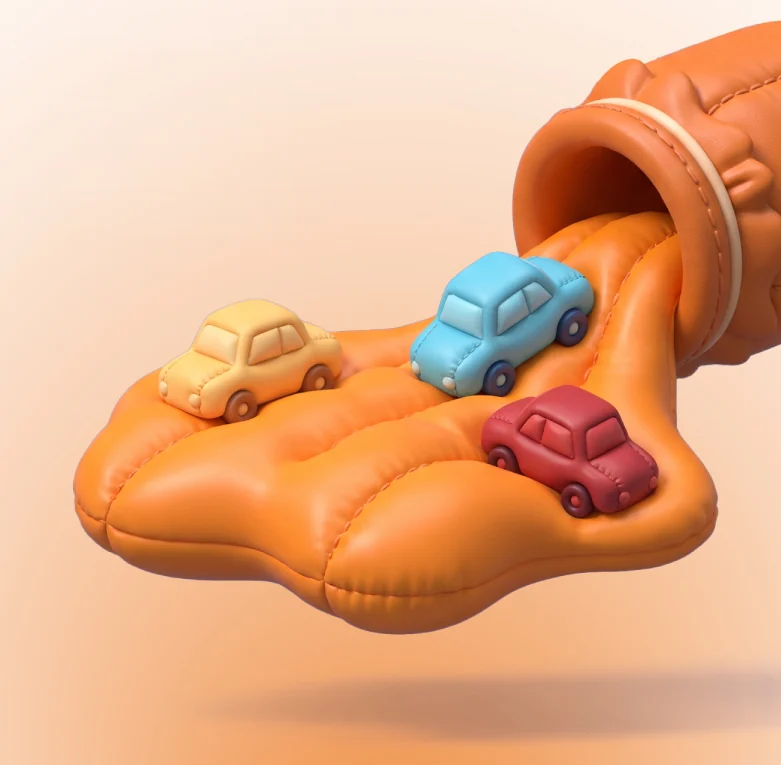
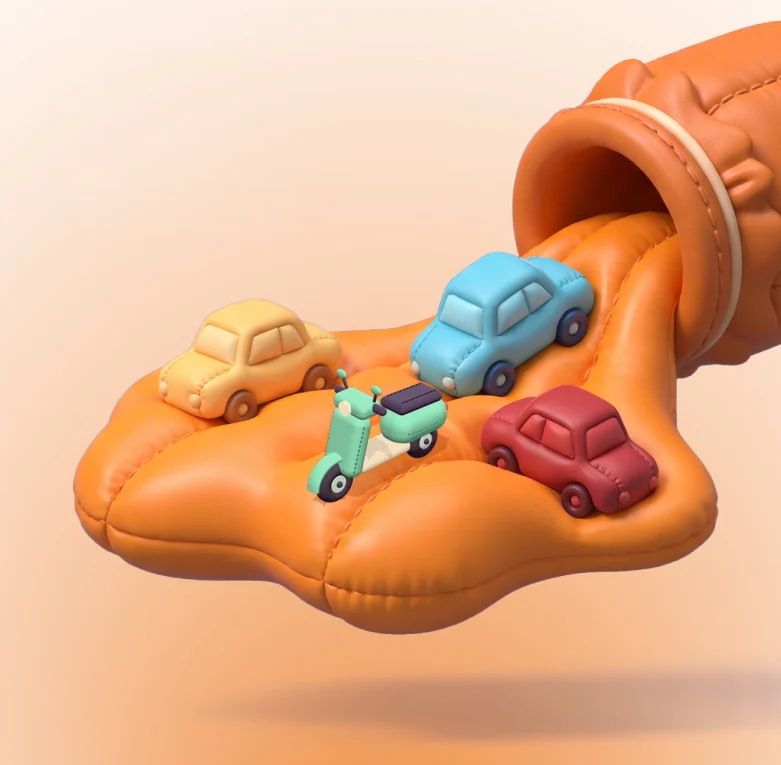
首頁插畫補一台機車：議題原文是「汽機車」
用 three.js 建薄荷綠玩具機車（輪胎、縫線、柔光照原本的車做），算繪成透明背景後合成在藍車前面；
模型與算繪腳本放在 design/landing/scooter/，可改顏色或角度重算。.gitignore 加 node_modules/。

Claude-Session: https://claude.ai/code/session_01VWphxRHHfm9Vpb5YjSMYpE

Changed region(s): [[0.3995, 0.481, 0.5839, 0.6614]]

diff --git a/design/landing/scooter/scooter.html b/design/landing/scooter/scooter.html
@@ -1,0 +1,148 @@
+<!doctype html>
+<html><head><meta charset="utf-8">
+<style>html,body{margin:0;background:transparent}</style>
+<script type="importmap">{"imports":{"three":"./node_modules/three/build/three.module.js","three/addons/":"./node_modules/three/examples/jsm/"}}</script>
+</head><body>
+<script type="module">
+// 插畫裡的玩具機車。算繪方式見 render.js；改顏色改 C，改角度用網址參數 yaw、elev。
+import * as THREE from 'three';
+import { RoundedBoxGeometry } from 'three/addons/geometries/RoundedBoxGeometry.js';
+import { RoomEnvironment } from 'three/addons/environments/RoomEnvironment.js';
+
+const q = new URLSearchParams(location.search);
+const W = +(q.get('w') || 800), H = +(q.get('h') || 700);
+const yaw = +(q.get('yaw') || 0.42);
+const elev = +(q.get('elev') || 0.52);
+
+const renderer = new THREE.WebGLRenderer({ antialias: true, alpha: true, preserveDrawingBuffer: true });
+renderer.setPixelRatio(1);
+renderer.setSize(W, H);
+renderer.setClearColor(0x000000, 0);
+renderer.toneMapping = THREE.NeutralToneMapping;
+renderer.toneMappingExposure = 1.0;
+renderer.outputColorSpace = THREE.SRGBColorSpace;
+renderer.shadowMap.enabled = true;
+renderer.shadowMap.type = THREE.PCFSoftShadowMap;
+document.body.appendChild(renderer.domElement);
+
+const scene = new THREE.Scene();
+const pmrem = new THREE.PMREMGenerator(renderer);
+scene.environment = pmrem.fromScene(new RoomEnvironment(), 0.04).texture;
+scene.environmentIntensity = 0.35;
+
+// 光：左上方的柔光＋地面橘色反光（插畫裡車子底部都偏橘）
+scene.add(new THREE.HemisphereLight(0xfff4ea, 0xf0883e, 0.75));
+const key = new THREE.DirectionalLight(0xfff1e2, 2.5);
+key.position.set(-2, 9, 3.5);
+key.castShadow = true;
+key.shadow.mapSize.set(2048, 2048);
+key.shadow.camera.left = -3; key.shadow.camera.right = 3;
+key.shadow.camera.top = 3; key.shadow.camera.bottom = -3;
+key.shadow.radius = 14;
+key.shadow.bias = -0.0006;
+scene.add(key);
+const rim = new THREE.DirectionalLight(0xffd9b8, 0.6);
+rim.position.set(4, 3, -4);
+scene.add(rim);
+
+function felt(hex, opts = {}) {
+  const c = new THREE.Color(hex);
+  return new THREE.MeshPhysicalMaterial({
+    color: c, roughness: 0.78, metalness: 0,
+    sheen: 0.35, sheenRoughness: 0.6, sheenColor: c.clone().lerp(new THREE.Color(0xffffff), 0.55),
+    ...opts,
+  });
+}
+const C = {
+  body: '#79CFAD', stitch: '#438F70',
+  cream: '#F4E2C4', seat: '#4A3C5C', tire: '#43394A', hub: '#CDEBDD',
+  lamp: '#FFF3D2', tail: '#D9555B',
+};
+
+const scooter = new THREE.Group();
+scene.add(scooter);
+function add(geo, mat, pos, rot = [0, 0, 0], scale) {
+  const m = new THREE.Mesh(geo, mat);
+  m.position.set(...pos); m.rotation.set(...rot);
+  if (scale) m.scale.set(...scale);
+  m.castShadow = true; m.receiveShadow = true;
+  scooter.add(m); return m;
+}
+const rbox = (w, h, d, r) => new RoundedBoxGeometry(w, h, d, 8, r);
+
+// 輪子：深紫藍輪胎＋淺色輪轂（和插畫裡的車一樣）
+function wheel(x) {
+  add(new THREE.TorusGeometry(0.235, 0.135, 32, 64), felt(C.tire, { roughness: 0.9 }), [x, 0.37, 0]);
+  add(new THREE.CylinderGeometry(0.15, 0.15, 0.25, 48), felt(C.hub), [x, 0.37, 0], [Math.PI / 2, 0, 0]);
+  add(new THREE.SphereGeometry(0.055, 24, 16), felt(C.tire), [x, 0.37, 0.13]);
+}
+wheel(-1.05);
+wheel(0.98);
+
+// 車身
+add(rbox(1.15, 0.22, 0.62, 0.1), felt(C.cream), [-0.12, 0.56, 0]);                       // 踏板
+const rear = add(rbox(1.3, 0.66, 0.7, 0.3), felt(C.body), [0.78, 0.86, 0]);              // 後車身
+const seat = add(rbox(1.04, 0.2, 0.58, 0.1), felt(C.seat, { roughness: 0.85 }), [0.72, 1.27, 0], [0, 0, -0.04]); // 坐墊
+const shield = add(rbox(0.36, 1.08, 0.74, 0.17), felt(C.body), [-0.74, 1.0, 0], [0, 0, -0.27]); // 前擋板
+add(new THREE.TorusGeometry(0.44, 0.068, 20, 64, Math.PI * 0.6), felt(C.body), [-1.05, 0.37, 0], [0, 0, Math.PI * 0.38], [1, 1, 2.0]); // 前土除：包住前輪的弧
+add(rbox(0.46, 0.28, 0.76, 0.12), felt(C.body), [-0.52, 1.62, 0]);                         // 龍頭
+add(new THREE.CylinderGeometry(0.12, 0.12, 0.08, 48), felt(C.lamp, { emissive: new THREE.Color(C.lamp), emissiveIntensity: 0.35 }),
+  [-0.77, 1.62, 0], [0, 0, Math.PI / 2]);                                                  // 大燈
+for (const z of [-0.45, 0.45]) {
+  add(new THREE.CapsuleGeometry(0.07, 0.16, 8, 24), felt(C.seat), [-0.46, 1.66, z], [Math.PI / 2, 0, 0]); // 握把
+  add(new THREE.CapsuleGeometry(0.025, 0.2, 6, 12), felt(C.seat), [-0.46, 1.86, z * 0.82], [z > 0 ? 0.35 : -0.35, 0, 0.1]); // 後照鏡桿
+  add(new THREE.SphereGeometry(0.1, 24, 16), felt(C.body), [-0.48, 1.99, z * 0.92], [0, 0, 0], [0.45, 0.75, 1.15]); // 後照鏡
+}
+add(rbox(0.08, 0.15, 0.4, 0.04), felt(C.tail, { emissive: new THREE.Color(C.tail), emissiveIntensity: 0.15 }), [1.43, 0.92, 0]); // 尾燈
+
+// 縫線：沿著車身表面排一串小短線，模仿插畫裡的布偶車縫線；用射線找表面，縫線才不會浮在圓角外面
+scooter.updateMatrixWorld(true);
+const ray = new THREE.Raycaster();
+function stitchesOn(mesh, path, dir, color = C.stitch) {
+  // path：在投影平面上的折線（2D），dir：射線方向（從車外往車內）
+  const d = new THREE.Vector3(...dir).normalize();
+  const flat = new THREE.CatmullRomCurve3(path.map(p => new THREE.Vector3(...p)));
+  const len = flat.getLength(), step = 0.072, n = Math.max(2, Math.floor(len / step));
+  const pts = [];
+  for (let i = 0; i <= n; i++) {
+    const o = flat.getPointAt(i / n).clone().addScaledVector(d, -2);
+    ray.set(o, d);
+    const hit = ray.intersectObject(mesh, false)[0];
+    if (!hit) continue;
+    const nrm = hit.face.normal.clone().transformDirection(mesh.matrixWorld);
+    pts.push(hit.point.clone().addScaledVector(nrm, 0.012));
+  }
+  const geo = new THREE.CapsuleGeometry(0.012, 0.03, 4, 8);
+  const mat = felt(color, { sheen: 0 });
+  for (let i = 0; i < pts.length - 1; i++) {
+    const a = pts[i], b = pts[i + 1];
+    const m = new THREE.Mesh(geo, mat);
+    m.position.copy(a).lerp(b, 0.5);
+    m.quaternion.setFromUnitVectors(new THREE.Vector3(0, 1, 0), b.clone().sub(a).normalize());
+    scooter.add(m);
+  }
+}
+for (const z of [1, -1]) {
+  stitchesOn(rear, [[0.3, 0.86, 0], [0.78, 0.84, 0], [1.28, 0.86, 0]], [0, 0, -z]);   // 後車身側邊
+  stitchesOn(shield, [[-0.95, 0.55, 0], [-0.82, 1.0, 0], [-0.69, 1.42, 0]], [0, 0, -z]); // 前擋板側邊
+}
+stitchesOn(seat, [[0.3, 2, 0.18], [0.72, 2, 0.18], [1.14, 2, 0.18]], [0, -1, 0], '#2F2740');  // 坐墊
+stitchesOn(seat, [[0.3, 2, -0.18], [0.72, 2, -0.18], [1.14, 2, -0.18]], [0, -1, 0], '#2F2740');
+
+// 影子只接在地面上
+const ground = new THREE.Mesh(new THREE.PlaneGeometry(12, 12), new THREE.ShadowMaterial({ color: 0xb8460f, opacity: 0.42 }));
+ground.rotation.x = -Math.PI / 2;
+ground.receiveShadow = true;
+scene.add(ground);
+
+scooter.rotation.y = yaw;
+
+const cam = new THREE.PerspectiveCamera(18, W / H, 0.1, 100);
+const dist = 13;
+cam.position.set(-dist * Math.cos(elev) * 0.32, 0.9 + dist * Math.sin(elev), dist * Math.cos(elev) * 0.95);
+cam.lookAt(0.1, 0.9, 0);
+
+renderer.render(scene, cam);
+window.__done = true;
+</script>
+</body></html>

diff --git a/design/landing/scooter/render.js b/design/landing/scooter/render.js
@@ -1,0 +1,28 @@
+// 把 scooter.html 算繪成透明背景的 PNG。
+// 用法：npm i three@0.169.0 playwright && node render.js "scooter.html?w=1600&h=1400" scooter.png 1600 1400
+const http = require('http'), fs = require('fs'), path = require('path');
+const { chromium } = require('playwright');
+const root = __dirname;
+const types = { '.html': 'text/html', '.js': 'text/javascript', '.mjs': 'text/javascript' };
+const server = http.createServer((req, res) => {
+  const p = path.join(root, decodeURIComponent(req.url.split('?')[0]));
+  fs.readFile(p, (err, data) => {
+    if (err) { res.writeHead(404); return res.end(); }
+    res.writeHead(200, { 'Content-Type': types[path.extname(p)] || 'application/octet-stream' });
+    res.end(data);
+  });
+}).listen(0, async () => {
+  const port = server.address().port;
+  const [,, scene, out, w = '800', h = '700'] = process.argv;
+  const browser = await chromium.launch({
+    executablePath: process.env.CHROMIUM_PATH || undefined,
+    args: ['--use-angle=swiftshader', '--enable-unsafe-swiftshader', '--ignore-gpu-blocklist'],
+  });
+  const page = await browser.newPage({ viewport: { width: +w, height: +h }, deviceScaleFactor: 1 });
+  page.on('console', m => console.log('[page]', m.text()));
+  page.on('pageerror', e => console.log('[pageerror]', e.message));
+  await page.goto(`http://localhost:${port}/${scene}`);
+  await page.waitForFunction(() => window.__done === true, null, { timeout: 120000 });
+  await page.locator('canvas').screenshot({ path: out, omitBackground: true });
+  await browser.close(); server.close();
+});

diff --git a/design/landing/README.md b/design/landing/README.md
@@ -6,7 +6,7 @@
 
 ## 保留原稿的部分
 
-- 3D 玩具車插畫：`hero-toy-road.webp`（27 KB）直接從設計稿裁下，去掉原本畫在圖上的字，副標改用網頁文字疊上去。
+- 3D 玩具車插畫：`hero-toy-road.webp`（30 KB）直接從設計稿裁下，去掉原本畫在圖上的字，副標改用網頁文字疊上去；另外補了一台機車（見下面「插畫裡的機車」）。
 - 字標字型改用 Google Fonts 的 Grandstander 800，是最接近原稿的免費字型。
 - 橘色＋青色的配色、「把塞車捲起來」、按鈕「點我⋯！」的語氣、置中的大字主文案。
 
@@ -34,12 +34,25 @@
 - **青色代表行動：** 按鈕、建議時段。和錯峰情境色階的「藍＝改善」一致。
 - 資料畫面（熱力圖、錯峰情境、協商一頁紙）照舊使用 [`Tokens.dc.html`](../heatmap-canvas/Tokens.dc.html)。
 
+## 插畫裡的機車
+
+議題原文寫「汽機車」，台北通勤族看到機車才會覺得在講自己，所以在藍車前面補了一台鑽車縫的薄荷綠玩具機車。顏色避開三台車已用的黃、藍、紅；輪胎、輪轂、縫線、柔光與橘色地面反光都照插畫裡的車做。
+
+機車是用 three.js 建的 3D 模型（[`scooter/scooter.html`](scooter/scooter.html)），算繪成透明背景後合成上去。要改顏色或角度：
+
+```sh
+cd design/landing/scooter
+npm i three@0.169.0 playwright
+node render.js "scooter.html?w=1600&h=1400" scooter.png 1600 1400   # 角度可加 &yaw=0.42&elev=0.52
+```
+
+合成位置：機車縮到寬 142px，中心放在插畫（781×765）的 (378, 438)，飽和度 ×0.92、模糊 0.35px，讓質感接近原本的車。
+
 ## 請設計師下一版補的
 
-1. **加一台機車。** 議題原文寫「汽機車」，台北通勤族看到機車才會覺得在講自己。
-2. **插畫單獨匯出：** 透明背景、寬 1560px 以上（3 倍螢幕），網站就不用再從設計稿裁切與淡出邊緣。
-3. **正式版 logo。**
-4. 換題用的同系列插畫：機車、捷運、停車場，色調與質感不變。
+1. **插畫單獨匯出：** 透明背景、寬 1560px 以上（3 倍螢幕），網站就不用再從設計稿裁切與淡出邊緣。重新出圖時請把機車一起畫進去，顏色與位置可參考目前的版本。
+2. **正式版 logo。**
+3. 換題用的同系列插畫：捷運、停車場等，色調與質感不變。
 
 ## 換題時要改
 
